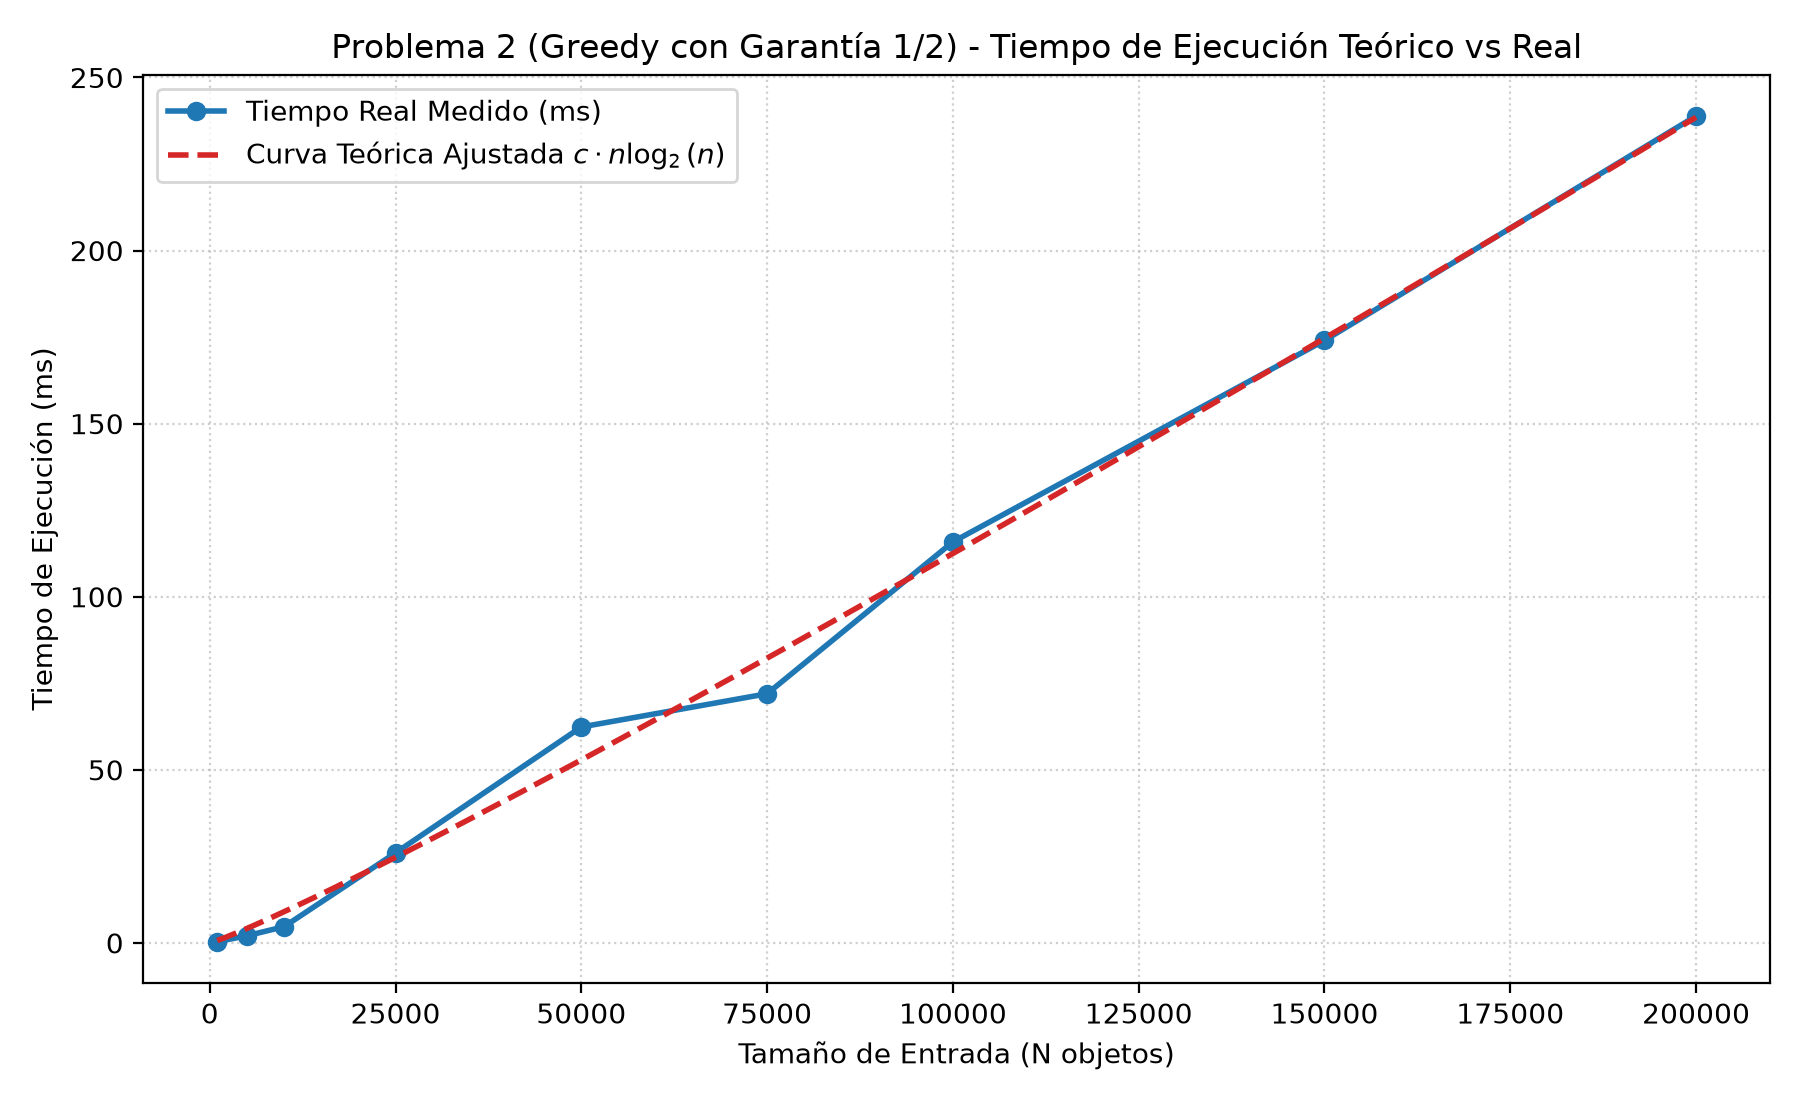
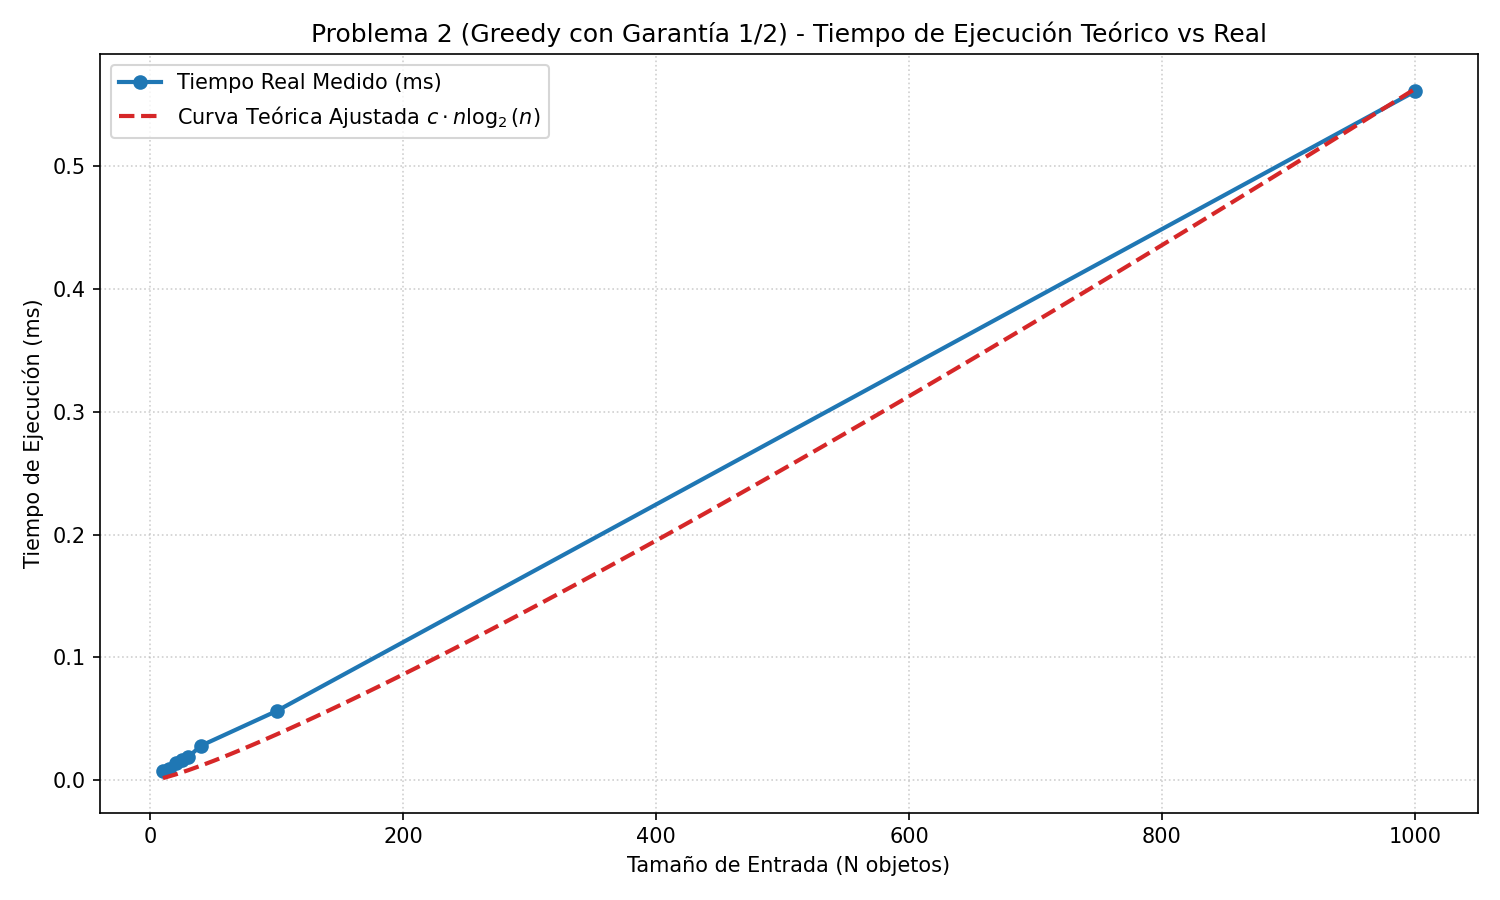
Se corrige el codigo del problema02

diff --git a/problema02/problema02.py b/problema02/problema02.py
@@ -4,8 +4,6 @@ import os
 import sys
 from dataclasses import dataclass
 
-import crear_mochila
-
 
 @dataclass
 class Elemento:
@@ -57,11 +55,6 @@ def cargar_mochila_desde_archivo(ruta_archivo: str) -> tuple[int, list[Elemento]
     return capacidad, elementos
 
 
-def generar_mochila(n: int) -> tuple[int, list[Elemento]]:
-    crear_mochila.crear_mochila(n)
-    return cargar_mochila_desde_archivo(f"mochila{n}.txt")
-
-
 def resolver_mochila_greedy(capacidad: int, elementos: list[Elemento]) -> ResultadoMochila:
     candidatos = [elem for elem in elementos if elem.peso <= capacidad]
     if not candidatos:
@@ -101,10 +94,18 @@ def resolver_mochila_greedy(capacidad: int, elementos: list[Elemento]) -> Result
 def main():
     if len(sys.argv) == 1:
         capacidad, elementos = obtener_mochila_manual_garantia()
+        nombre_salida = "solucion_manual_greedy.txt"
     elif sys.argv[1].isdigit():
-        capacidad, elementos = generar_mochila(int(sys.argv[1]))
+        n = sys.argv[1]
+        ruta = os.path.join(os.path.dirname(os.path.dirname(os.path.abspath(__file__))), "Mochilas", f"mochila{n}.txt")
+        if not os.path.exists(ruta):
+            print(f"Error: No se encontró el archivo {ruta}. Generá los datos unificados primero.")
+            sys.exit(1)
+        capacidad, elementos = cargar_mochila_desde_archivo(ruta)
+        nombre_salida = f"solucion_greedy_n{n}.txt"
     elif os.path.isfile(sys.argv[1]):
         capacidad, elementos = cargar_mochila_desde_archivo(sys.argv[1])
+        nombre_salida = "solucion_greedy.txt"
     else:
         print("Uso: python3 problema02.py [n | archivo.txt]")
         sys.exit(1)
@@ -116,6 +117,18 @@ def main():
     print(f"Peso:      {resultado.peso_total}")
     print(f"Valor:     {resultado.valor_total}")
     print(f"Garantía:  {'SÍ' if resultado.actuo_garantia else 'NO'}")
+
+    # Guardar resultados en archivo
+    ruta_salida = os.path.join(os.path.dirname(os.path.abspath(__file__)), nombre_salida)
+    with open(ruta_salida, "w") as f:
+        f.write(f"Valor total: {resultado.valor_total}\n")
+        f.write(f"Peso utilizado: {resultado.peso_total}\n")
+        f.write(f"Actuo garantia de calidad: {'SI' if resultado.actuo_garantia else 'NO'}\n")
+        f.write("Elementos seleccionados (id, peso, valor):\n")
+        for e in resultado.elementos_seleccionados:
+            f.write(f"{e.id},{e.peso},{e.valor}\n")
+            
+    print(f"\nSolución guardada en {nombre_salida}")
 
 
 if __name__ == "__main__":
